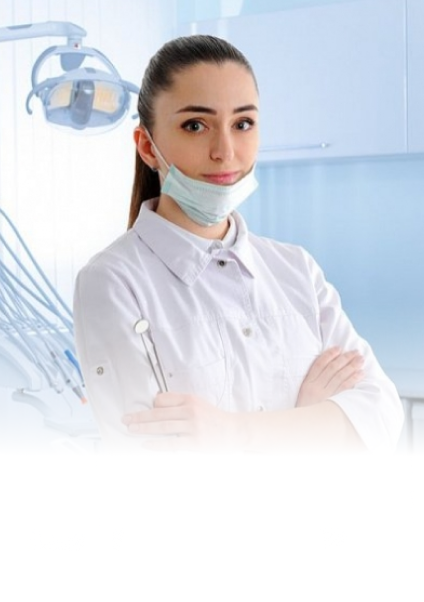
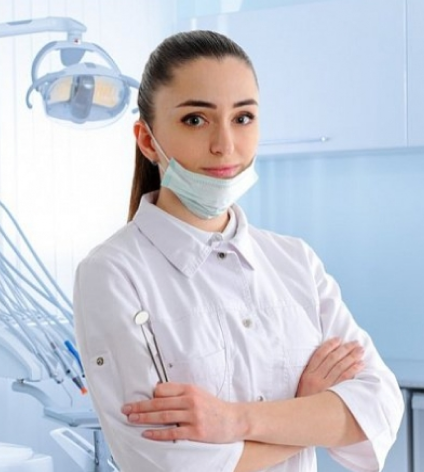
doctors section done

diff --git a/src/Components/Doctors/Doctors.jsx b/src/Components/Doctors/Doctors.jsx
@@ -13,17 +13,17 @@ export const Doctors = () => {
 			position: 'Стоматолог-терапевт',
 		},
 		{
-			img: doctor1,
+			img: doctor2,
 			name: 'Петровский Егор Павлович',
 			position: 'Стоматолог-гигиенист',
 		},
 		{
-			img: doctor1,
+			img: doctor3,
 			name: 'Ковш Ирина Владимировна',
 			position: 'Стоматолог-хирург',
 		},
 		{
-			img: doctor1,
+			img: doctor4,
 			name: 'Михайлов Михаил Михайлович',
 			position: 'Стоматолог-стоматолог',
 		},
@@ -53,6 +53,7 @@ const Doctor = ({ img, name, position }) => {
 		<div className={styles.doctor_inner}>
 			<div className={styles.img_wrap}>
 				<img src={img} alt="Доктор" />
+				<div className={styles.img_bg}></div>
 			</div>
 			<div className={styles.doctor_content}>
 				<h3>{name}</h3>

diff --git a/src/Components/Doctors/Doctors.module.scss b/src/Components/Doctors/Doctors.module.scss
@@ -9,6 +9,7 @@
 .doctors_wrap {
 	display: flex;
 	justify-content: space-between;
+	padding-bottom: 100px;
 }
 
 .doctor_inner {
@@ -19,6 +20,7 @@
 		width: 100%;
 		max-height: 300px;
 		overflow: hidden;
+		position: relative;
 	}
 
 	.doctor_content {
@@ -30,6 +32,20 @@
 		height: 100%;
 		object-fit: cover;
 		object-position: top;
+	}
+
+	.img_bg {
+		position: absolute;
+		width: 100%;
+		height: 100%;
+		top: 0;
+		left: 0;
+		background: linear-gradient(
+			180deg,
+			rgba(20, 6, 254, 0) 0%,
+			rgba(226, 255, 230, 0) 60%,
+			rgba(255, 255, 255, 1) 95%
+		);
 	}
 
 	h3 {
